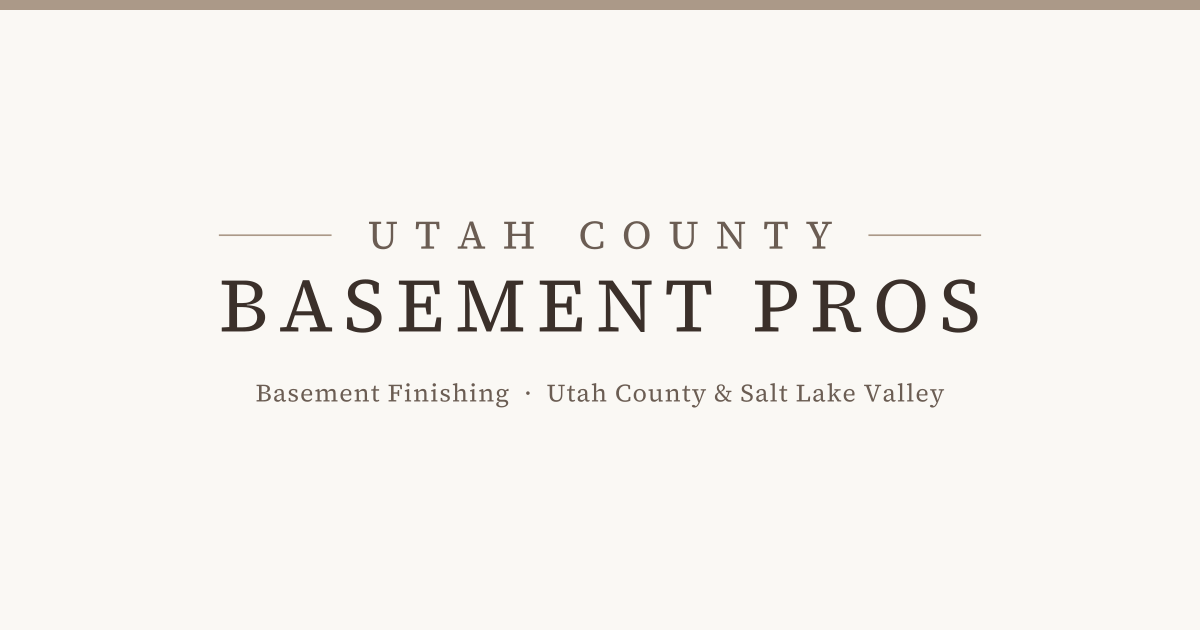
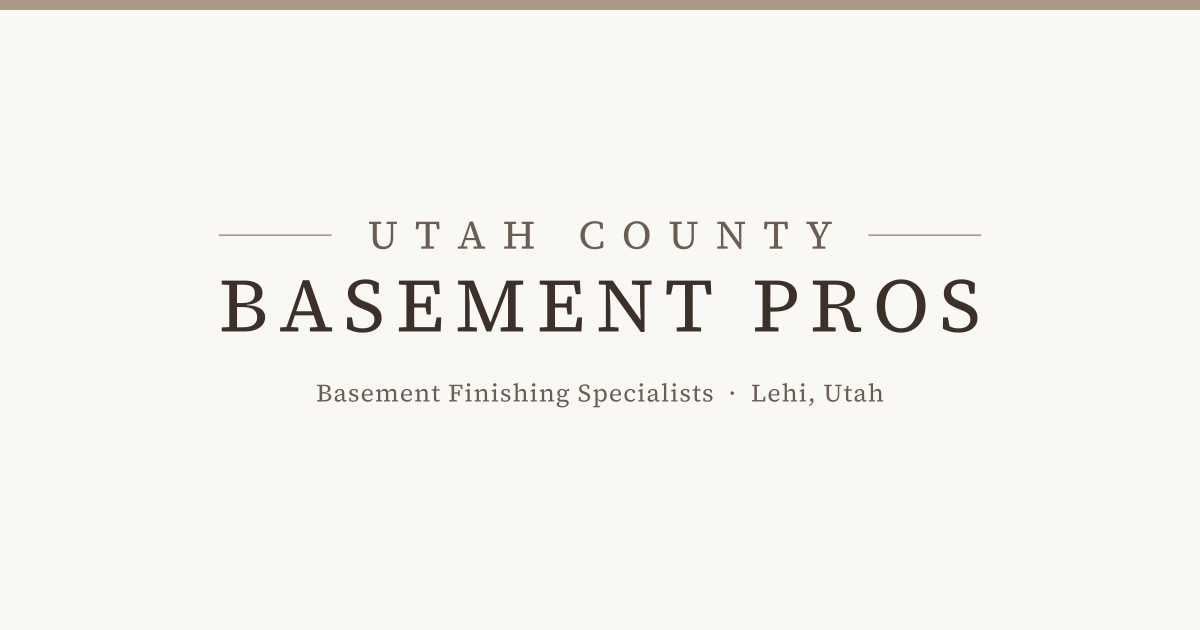
Show the Lehi office and tie the site to the Google Business Profile
- Staffed office (2701 N Thanksgiving Way, Lehi, UT 84043) and hours
  (Mon-Fri 8 AM-8 PM) in the footer, contact page, and schema, matching
  the GBP exactly; schema adds geo, hours, hasMap, and sameAs (GBP CID)
- Organization schema on every page, not just the homepage
- Brand-first homepage title anchored on Lehi; description names
  Saratoga Springs, Eagle Mountain, and Herriman
- Eagle Mountain joins the featured cities (homepage, footer, schema)
- OG image tagline anchors Lehi; /sitemap.xml 301s to the sitemap index
- Contact page email no longer overflows narrow phones

Changed region(s): [[0.2158, 0.6032, 0.8017, 0.6635]]

diff --git a/src/lib/schema.ts b/src/lib/schema.ts
@@ -2,8 +2,9 @@
  * JSON-LD structured data builders.
  *
  * Rules enforced here (see SCHEMA-TODO.md):
- *  - No street address (service-area business; residential address never published)
- *  - No aggregateRating / review / awards / employee counts / opening hours
+ *  - Address, map pin, and hours are the staffed Lehi office exactly as the
+ *    Google Business Profile shows them; never a residential address
+ *  - No aggregateRating / review / awards / employee counts
  *  - Only factual, verified values from src/config/business.ts
  *  - Everything emitted must match visible page content
  */
@@ -19,7 +20,7 @@ const SITE = business.domain;
  * general contractor (subtype of HomeAndConstructionBusiness > LocalBusiness).
  */
 export function organizationSchema(): JsonLd {
-  const sameAs = activeSocialLinks.map((s) => s.url);
+  const sameAs: string[] = activeSocialLinks.map((s) => s.url);
   if (business.googleBusinessProfileURL) {
     sameAs.push(business.googleBusinessProfileURL);
   }
@@ -36,7 +37,29 @@ export function organizationSchema(): JsonLd {
     telephone: business.phoneSchema,
     email: business.email,
     description:
-      "Family-rooted residential general contractor specializing in basement finishing and basement remodeling for homeowners in Saratoga Springs, Lehi, Herriman, and communities throughout Utah County, Utah.",
+      "Lehi, Utah based residential general contractor specializing in basement finishing and basement remodeling for homeowners throughout Utah County and the Salt Lake Valley.",
+    address: {
+      "@type": "PostalAddress",
+      streetAddress: business.location.streetAddress,
+      addressLocality: business.location.locality,
+      addressRegion: business.location.region,
+      postalCode: business.location.postalCode,
+      addressCountry: business.location.country,
+    },
+    geo: {
+      "@type": "GeoCoordinates",
+      latitude: business.location.latitude,
+      longitude: business.location.longitude,
+    },
+    ...(business.googleBusinessProfileURL
+      ? { hasMap: business.googleBusinessProfileURL }
+      : {}),
+    openingHoursSpecification: {
+      "@type": "OpeningHoursSpecification",
+      dayOfWeek: business.hours.days,
+      opens: business.hours.opens,
+      closes: business.hours.closes,
+    },
     founder: [
       { "@type": "Person", name: "Hunting Tanner", jobTitle: "Founder" },
     ],

diff --git a/src/config/business.ts b/src/config/business.ts
@@ -66,15 +66,41 @@ export const business = {
     youtube: "",
   },
 
-  /** Google Business Profile share URL. Empty until the profile is live. */
-  googleBusinessProfileURL: "",
+  /**
+   * The staffed office shown on the Google Business Profile (Hunting
+   * confirmed it is staffed and should be public, October 30, 2026).
+   * Keep name, address, and phone identical to the GBP everywhere.
+   * Never put a residential address here.
+   */
+  location: {
+    streetAddress: "2701 N Thanksgiving Way",
+    locality: "Lehi",
+    region: "UT",
+    regionName: "Utah",
+    postalCode: "84043",
+    country: "US",
+    /** The GBP map pin */
+    latitude: 40.4209358,
+    longitude: -111.8816934,
+  },
+
+  /** Office hours, matching the GBP. Change both together. */
+  hours: {
+    days: ["Monday", "Tuesday", "Wednesday", "Thursday", "Friday"],
+    opens: "08:00",
+    closes: "20:00",
+    display: "Mon–Fri, 8 AM – 8 PM",
+  },
+
+  /** Google Business Profile, by its permanent Maps listing ID (CID). */
+  googleBusinessProfileURL: "https://maps.google.com/?cid=7629791764318187044",
 
   /**
    * Service-area summary used in copy and schema. The detailed per-city data
    * model lives in src/data/service-areas.ts.
    */
   serviceAreas: {
-    primary: ["Saratoga Springs", "Lehi", "Utah County"],
+    primary: ["Saratoga Springs", "Lehi", "Eagle Mountain", "Utah County"],
     secondary: ["Herriman", "Salt Lake County"],
     summary:
       "Serving every community in northern Utah County and across the Salt Lake Valley.",

diff --git a/src/data/service-areas.ts b/src/data/service-areas.ts
@@ -43,6 +43,15 @@ export const featuredCities: ServiceArea[] = [
     schemaType: "City",
   },
   {
+    name: "Eagle Mountain",
+    state: "Utah",
+    href: "/eagle-mountain-basement-finishing/",
+    tier: "primary",
+    blurb:
+      "One of the fastest-growing cities in Utah, full of newer homes with untouched basements ready to become bedrooms and family space.",
+    schemaType: "City",
+  },
+  {
     name: "Herriman",
     state: "Utah",
     href: "/herriman-basement-finishing/",
@@ -61,7 +70,7 @@ export const featuredCounties: ServiceArea[] = [
     href: "/utah-county-basement-finishing/",
     tier: "primary",
     blurb:
-      "A Utah County based residential contractor serving homeowners at their properties across the county.",
+      "Based in Lehi and serving homeowners at their properties across the county.",
     schemaType: "AdministrativeArea",
   },
   {

diff --git a/src/config/navigation.ts b/src/config/navigation.ts
@@ -26,6 +26,7 @@ export const footerServices: NavItem[] = [
 export const footerAreas: NavItem[] = [
   { label: "Saratoga Springs", href: "/saratoga-springs-basement-finishing/" },
   { label: "Lehi", href: "/lehi-basement-finishing/" },
+  { label: "Eagle Mountain", href: "/eagle-mountain-basement-finishing/" },
   { label: "Herriman", href: "/herriman-basement-finishing/" },
   { label: "Utah County (all cities)", href: "/utah-county-basement-finishing/" },
   { label: "Salt Lake County (all cities)", href: "/salt-lake-county-basement-finishing/" },

diff --git a/HANDOFF.md b/HANDOFF.md
@@ -96,7 +96,8 @@ Utah homeowners — largely in newer subdivisions with **unfinished, rough-plumb
 
 ### Geographic / service-area focus
 
-- **Primary:** northern **Utah County** — Saratoga Springs, Lehi (home base is northwest Utah County)
+- **Headquarters:** the staffed Lehi office (2701 N Thanksgiving Way). The homepage title/description anchor Lehi; city pages anchor their own city.
+- **Primary:** northern **Utah County** — Saratoga Springs, Lehi, Eagle Mountain (Hunting's core SEO targets, with Herriman). Eagle Mountain joined the featured cities (homepage cards, footer, schema) on October 30, 2026.
 - **Secondary:** **Salt Lake County** / Salt Lake Valley — Herriman, Riverton, Bluffdale, South Jordan, etc.
 - **Boundaries the owner set explicitly:** nothing **south of Spanish Fork**; nothing **north of the Salt Lake City airport**.
 - 31 individual city landing pages exist (13 Utah County + 18 Salt Lake County), each with **genuinely distinct copy** — not name-swapped templates.
@@ -355,6 +356,13 @@ Hunting bought **utahcountybasementpros.com** at **Porkbun** (nameservers `*.ns.
 
 - Existing **verified** profile "Hunting Tanner Construction" (store code 00435275759364849470), service-area business with hidden address (home office), Lehi, Orem + 13 areas, **7 reviews** (Aug–Sep 2026). Managed at business.google.com under the Workspace user (now office@utahcountybasementpros.com).
 - Hunting is getting a real office this month. Recommendation given (see conversation): **keep and edit this profile, don't create a new one**; register the DBA first; change the name as a standalone edit; update the website field now; add the office address later as a separate edit, shown only if it is staffed during listed hours with permanent signage and can receive customers (else keep hidden). Caveat: Google's written rebranding rule only covers "minor" name changes where proper nouns and services stay the same, so this rename may be reviewed as a new business.
+
+### Update, October 30, 2026: new profile + public office
+
+- Hunting created a **new** GBP **"Utah County Basement Pros"** (he chose this over editing the old one; the DBA is registered and on the DOPL license and insurance). Public listing: **2701 N Thanksgiving Way, Lehi, UT 84043**, (801) 901-8349, **Mon–Fri 8 AM – 8 PM**, primary category **Remodeler**, website utahcountybasementpros.com, 2 reviews. Maps CID **7629791764318187044** (`https://maps.google.com/?cid=7629791764318187044`), pin 40.4209358, -111.8816934.
+- Hunting confirmed the office is **staffed** and asked for the **full address to be shown** on the site. It now lives in `business.location` / `business.hours` and appears in the footer (every page, linked to the GBP), on `/contact/` (with directions + hours), and in the GeneralContractor schema (address, geo, hours, hasMap, sameAs). Keep these **identical to the GBP**; if the GBP changes, change `business.ts` the same day.
+- **The old "Hunting Tanner Construction" profile is still live** with the same phone, website huntingtanner.com (which 301s here), category General contractor, 7 reviews, closes 6 PM. Two profiles for one business sharing a phone number is the likely reason the new profile **does not show a knowledge panel for a plain search of its own name** (checked October 30: the old name shows a panel; the new name shows competitors' local pack). Recommended to Hunting: ask GBP support to **merge the old profile into the new one as a duplicate** (reviews usually come across with a merge, not guaranteed). He said not to touch reviews yet, so this is his call; don't act on it without him.
+- Category advice given: the three top basement competitors in the local pack all use **General contractor** as primary; consider General contractor primary + Remodeler secondary. Never add keywords to the GBP name.
 
 ## 4B. ⭐ CURRENT PALETTE: WALNUT & LINEN (live since October 12, 2026) — SOURCE OF TRUTH
 
@@ -637,7 +645,7 @@ A checklist to run before shipping any visual or structural change.
 16. ❌ **Calling Gary a co-founder / founder / partner / principal / owner**, or implying he is licensed in Utah, or that he holds equity. He is the **Senior Advisor**, involved in every project. See §1.
 17. ❌ **"4-8 weeks"** for project duration. It is **6-10 weeks**.
 18. ❌ **"30 years" / "three decades"** for Gary's experience. It is **35+ years**.
-19. ❌ **Any residential address** anywhere — page copy, footer, contact page, structured data, source code, or metadata. Standing rule.
+19. ❌ **Any residential address** anywhere — page copy, footer, contact page, structured data, source code, or metadata. Standing rule. (The staffed Lehi office in `business.location` is the one public address, by Hunting's instruction, October 30, 2026.)
 20. ❌ **Invented facts** of any kind.
 
 ### Process
@@ -700,7 +708,7 @@ Everything is **prerendered static HTML** — verified server-rendered, not clie
 ### Schema / JSON-LD
 
 All in `src/lib/schema.ts`, injected via `StructuredData.astro`:
-- **GeneralContractor** organization — name, legalName, url, logo, image, telephone, email, description, **`founder: [Hunting Tanner — "Founder"]` only**, `areaServed`. ⚠ **No address** by owner instruction.
+- **GeneralContractor** organization — name, legalName, url, logo, image, telephone, email, description, **`founder: [Hunting Tanner — "Founder"]` only**, `areaServed`, on **every page**. Since October 30, 2026 also the **staffed Lehi office**: full PostalAddress, GeoCoordinates, openingHoursSpecification (Mon–Fri 08:00–20:00), `hasMap` + `sameAs` = the GBP CID link, all read from `business.location` / `business.hours` (Hunting's instruction; before that there was no address).
 - **Service** — basement finishing / remodeling
 - **BreadcrumbList** — on interior pages
 - **FAQPage** — homepage + `/faq/`
@@ -900,7 +908,7 @@ None. Per Hunting's standing instruction, every change is committed and pushed t
 
 ### 🟡 Open items
 
-3. **Google Business Profile** — not yet created. **Create it under "Utah County Basement Pros"** (matching the site's `publicName` and schema `name` exactly). `business.googleBusinessProfileURL` is `""`. Once created and reviews come in, populate `src/data/reviews.ts`; `GoogleReviews.astro` renders nothing while the array is empty (by design — **never add fake reviews**).
+3. **Google Business Profile** — created as "Utah County Basement Pros" (see §4A-3 update, October 30, 2026); `business.googleBusinessProfileURL` is the CID link. Open question for Hunting: merge the old Hunting Tanner Construction profile into it. Once created and reviews come in, populate `src/data/reviews.ts`; `GoogleReviews.astro` renders nothing while the array is empty (by design — **never add fake reviews**).
 4. **Attorney review of `/privacy-policy/` and `/terms/`.** The effective date "July 30, 2026" is a **placeholder**.
 5. **Confirm Gary's bio details**, particularly the spelling of **Amaron Construction**, and confirm the California license history is stated accurately.
 6. **Confirm insurance wording** against the actual carrier/policy. `insuranceClaimApproved: true` currently gates "licensed & insured" language.
@@ -953,7 +961,7 @@ plus **Light / Dark main buttons** and **Standard / Lighter section bands** (lig
 
 ### Standing rules (never violate)
 
-- **No residential address** anywhere — copy, footer, contact page, structured data, source, or metadata.
+- **No residential address** anywhere — copy, footer, contact page, structured data, source, or metadata. The staffed Lehi office (`business.location`) is the only public address.
 - **Never invent** projects, licenses, reviews, statistics, awards, addresses, or credentials.
 - **No hardcoded secrets**; no secrets in client code; no open email relay.
 - **No marketing scripts during staging**; no invasive tracking.
